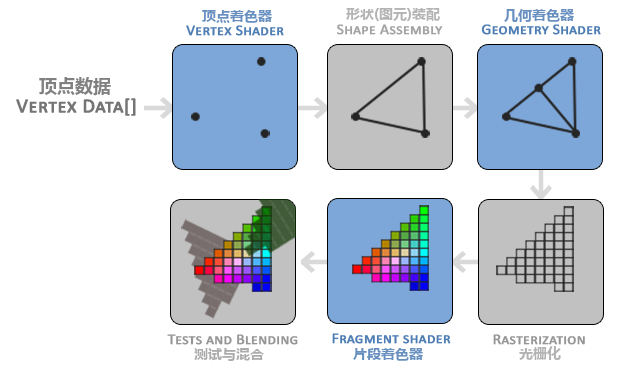
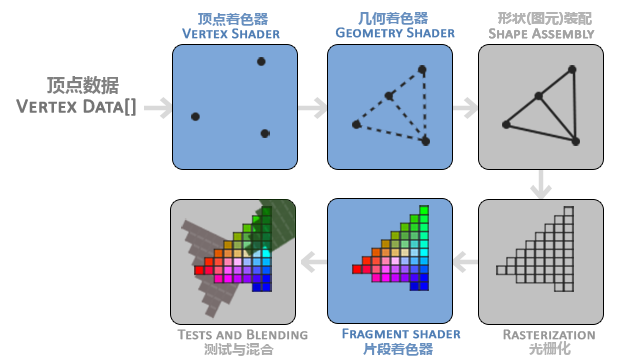
update OpenGL content

diff --git a/OpenGL/图形渲染管线.md b/OpenGL/图形渲染管线.md
@@ -4,13 +4,15 @@
 图形渲染管线的每个阶段的抽象展示。蓝色部分代表的是我们可以注入自定义的着色器的部分。
 
 ![](../images/OpenGL_Graphics_Pipeline.png)
+
+
 图形渲染管线的第一个部分是顶点着色器 (Vertex Shader)，它把一个单独的顶点作为输入。顶点着色器主要的目的是把3D 坐标转为另一种3D 坐标，同时顶点着色器允许我们对顶点属性进行一些基本处理。
 
-图元装配（Primitive Assembly）阶段将顶点着色器输出的所有顶点作为输入（如果是 GL_POINTS，那么就是一个顶点），并所有的点装配成指定图元的形状；
+顶点着色器阶段的输出可以选择性地传递给几何着色器 (Geometry Shader)。几何着色器以一组顶点作为输入，这些顶点形成一个基本图元，并且能够通过发出新的顶点来形成新的 (或其他)图元来生成其他形状。
 
-图元装配阶段的输出会传递给几何着色器 (Geometry Shader)。几何着色器把图元形式的一系列顶点的集合作为输入，它可以通过产生新顶点构造出新的（或是其它的）图元来生成其他形状。
+图元装配 (Primitive Assembly)阶段以顶点着色器（或几何着色器）中的所有顶点作为输入（如果是 GL_POINTS，那么就是一个顶点），并将所有的点装配成指定图元的形状；
 
-几何着色器的输出会被传入光栅化阶段 (Rasterization Stage)，这里它会把图元映射为最终屏幕上相应的像素，生成供片段着色器 (Fragment Shader)使用的片段 (Fragment)。在片段着色器运行之前会执行裁切 (Clipping)。裁切会丢弃超出你的视图以外的所有像素，用来提升执行效率。
+图元装配阶段的输出会被传入光栅化阶段(Rasterization Stage)，这里它会把图元映射为最终屏幕上相应的像素，生成供片段着色器(Fragment Shader)使用的片段(Fragment)。在片段着色器运行之前会执行裁切(Clipping)。裁切会丢弃超出你的视图以外的所有像素，用来提升执行效率。
 
 > OpenGL 中的一个片段是 OpenGL 渲染一个像素所需的所有数据。
 
